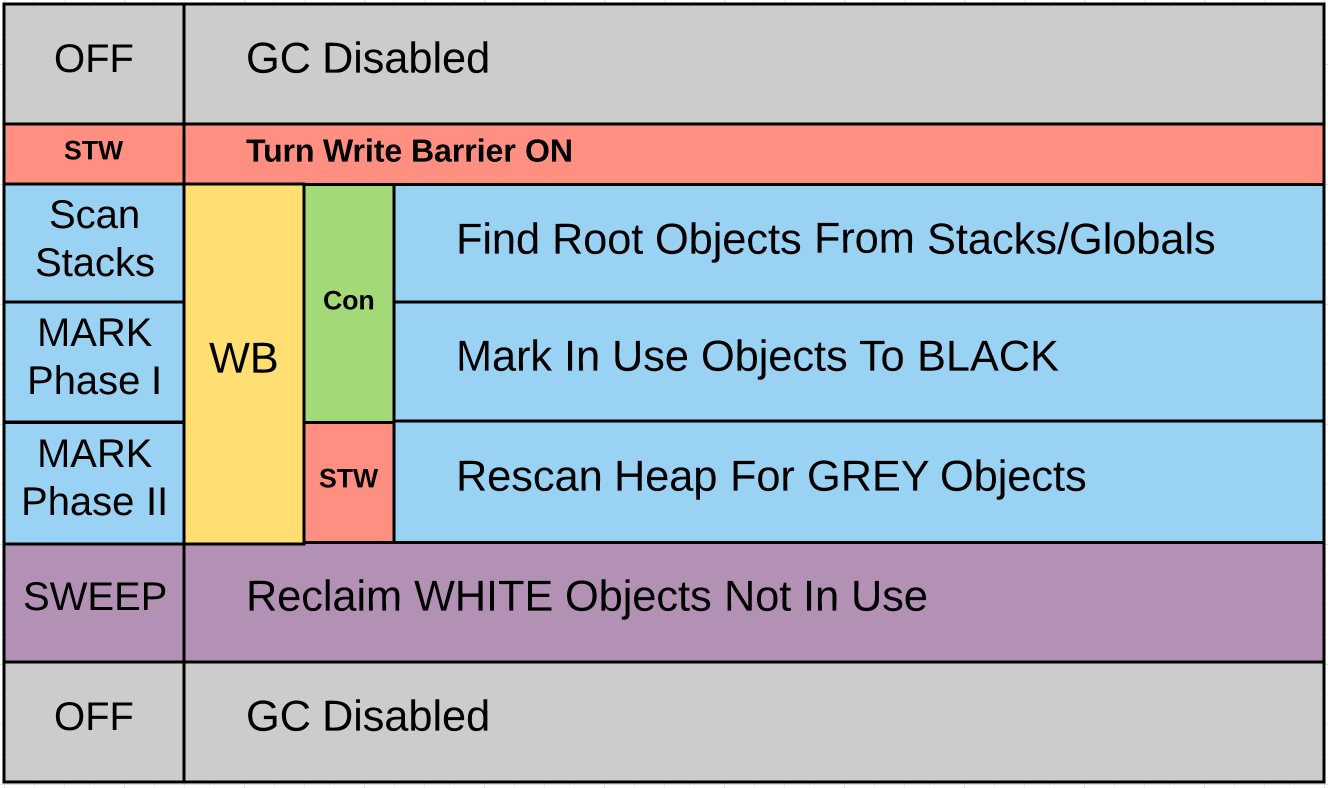
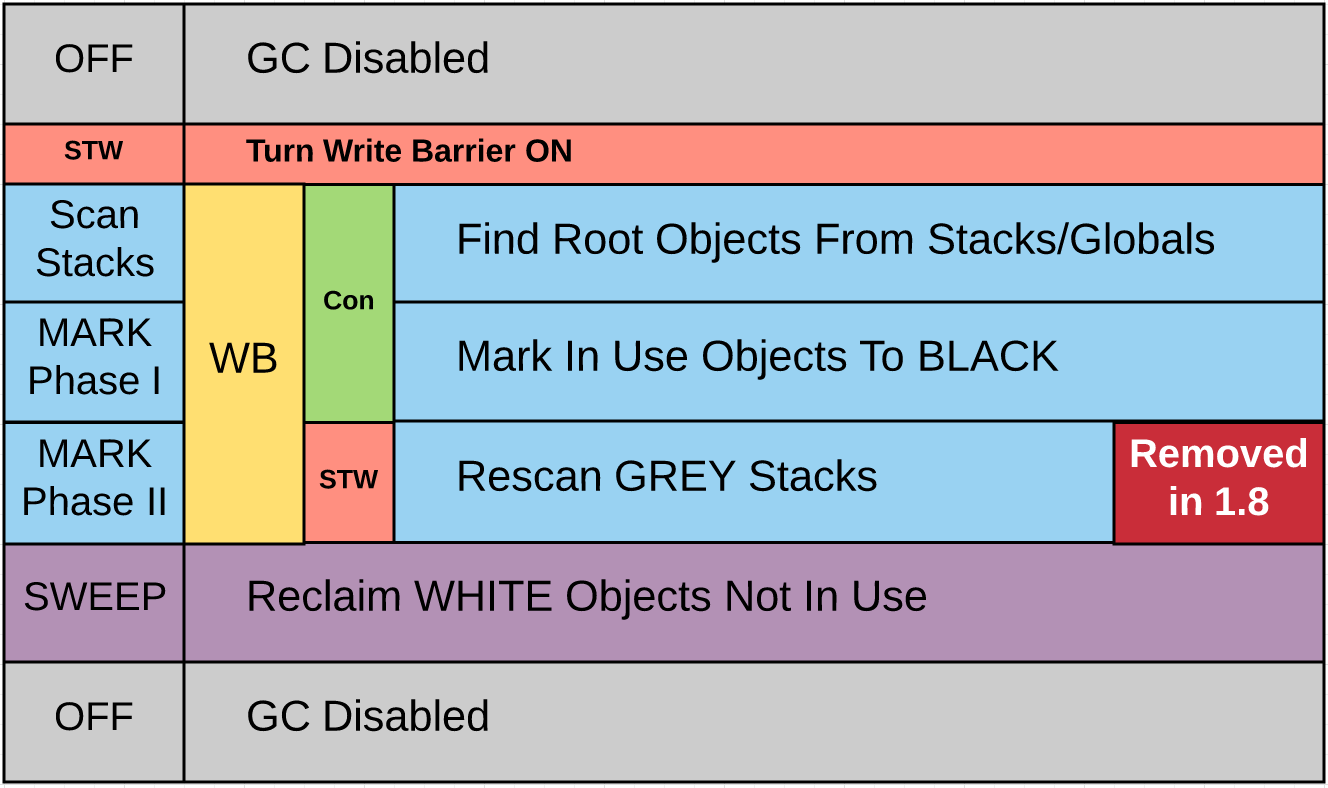
Added 1.8 improvement to GC.

Changed region(s): [[0.4631, 0.5178, 1.0, 0.7005], [0.6175, 0.2741, 0.6792, 0.3046], [0.247, 0.5787, 0.2779, 0.6091]]

diff --git a/topics/language/pointers/README.md b/topics/language/pointers/README.md
@@ -19,8 +19,9 @@ The design of the Go GC has changed over the years:
 * Go 1.5, New GC design, focusing on latency over throughput.
 * Go 1.6, GC improvements, handling larger heaps with lower latency.
 * Go 1.7, GC improvements, handling larger number of idle goroutines, substantial stack size fluctuation, or large package-level variables.
+* Go 1.8, GC improvements, collection pauses should be significantly shorter than they were in Go 1.7, usually under 100 microseconds and often as low as 10 microseconds.
 
-![figure1](GC_Algorithm.png?v=2)
+![figure1](GC_Algorithm.png?v=4)
 
 **STW : Stop The World Phase**
 
